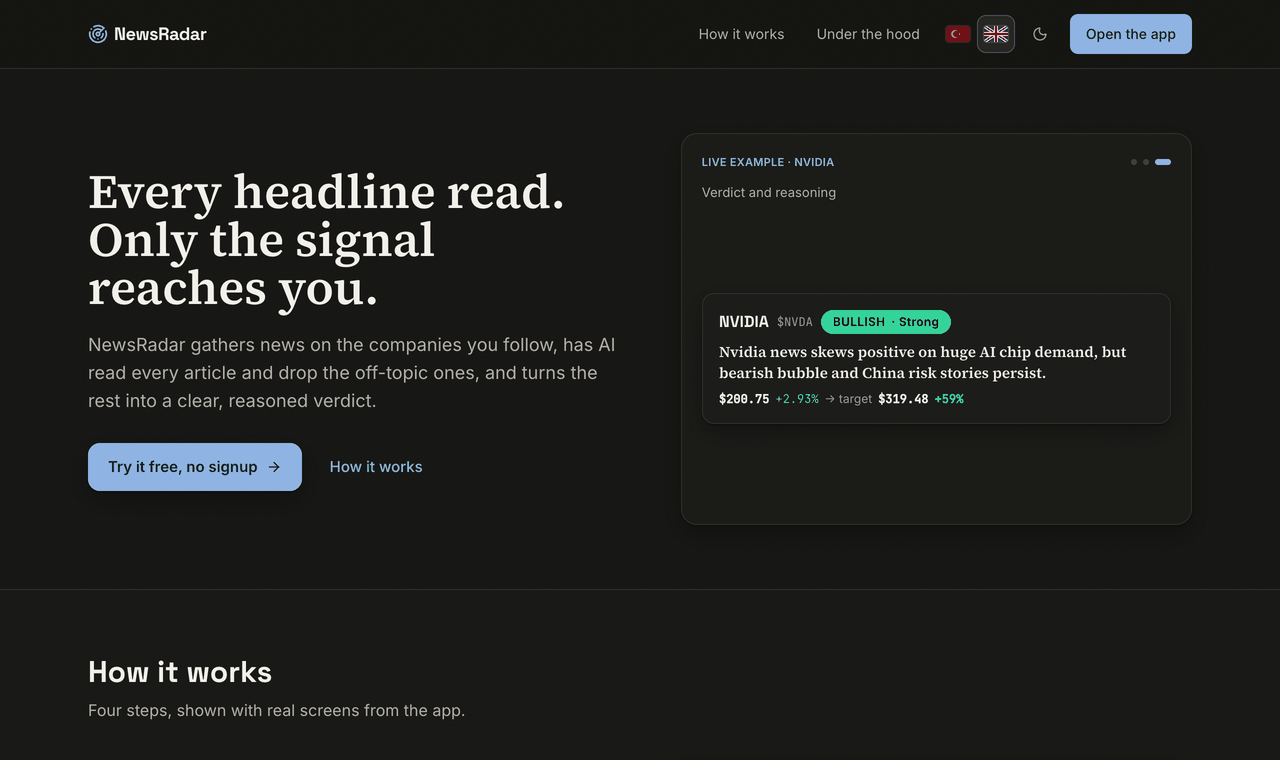
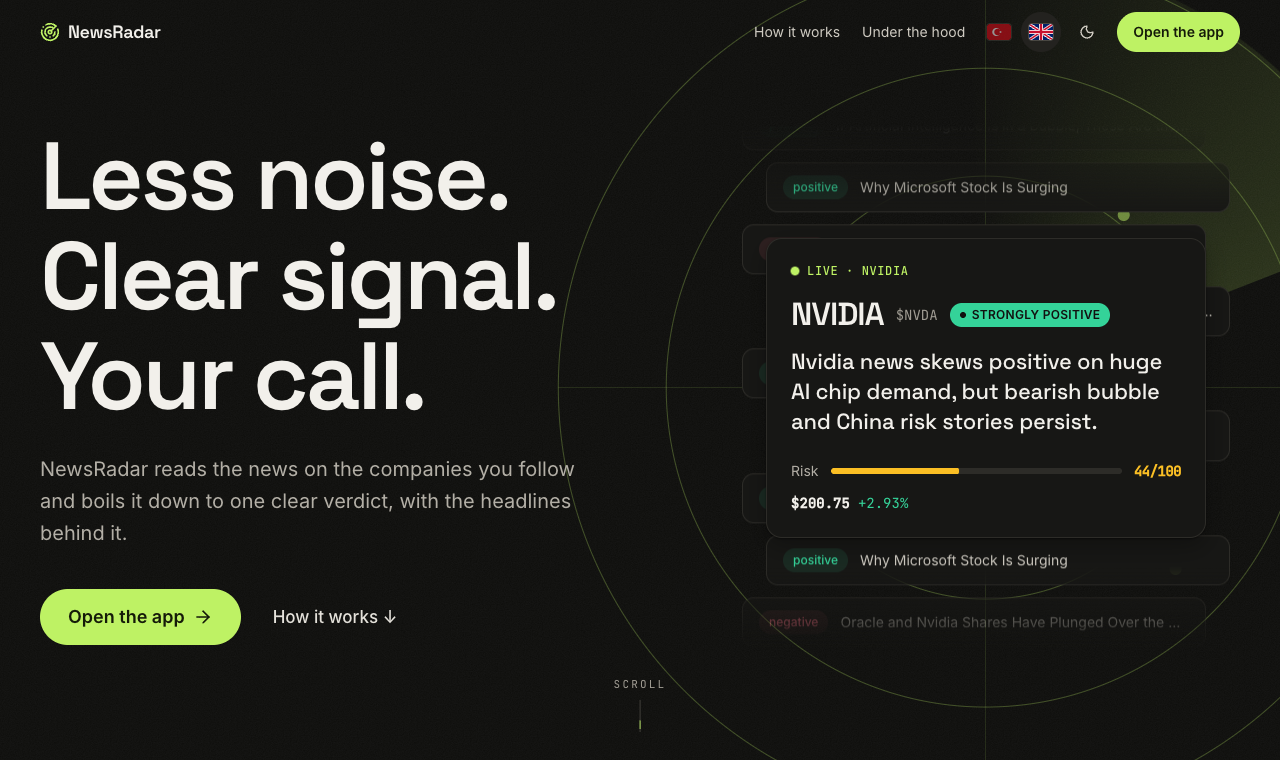
README: landing ve uygulama görselleri (açık + koyu) yeni tasarımla
- docs/images: landing-light/dark yenilendi, app-light/dark (pano) eklendi — EN arayüz,
  1280×760.
- Tablo landing + uygulama satırlarına genişletildi; özellik listesinde kaydırmaya bağlı
  landing ve ortak tasarım sistemi.

diff --git a/README.md b/README.md
@@ -6,9 +6,10 @@ NewsRadar collects financial news for a watchlist of companies, has an LLM read 
 
 > Portfolio project, not affiliated with newsradar.com.tr.
 
-| Light theme | Dark theme |
-|---|---|
-| ![NewsRadar landing page, light theme](docs/images/landing-light.png) | ![NewsRadar landing page, dark theme](docs/images/landing-dark.png) |
+| | Light theme | Dark theme |
+|---|---|---|
+| **Landing** | ![NewsRadar landing page, light theme](docs/images/landing-light.png) | ![NewsRadar landing page, dark theme](docs/images/landing-dark.png) |
+| **App** | ![NewsRadar dashboard, light theme](docs/images/app-light.png) | ![NewsRadar dashboard, dark theme](docs/images/app-dark.png) |
 
 > **Principle:** NewsRadar gives a clear direction (bullish / neutral / bearish) and a conviction level, but it keeps the **news-flow signal separate from price prediction**. It says explicitly what news cannot tell you (valuation, whether a move is already priced in), and every view includes a **"verify first" checklist**. There are no unexplained BUY/SELL calls. This is not investment advice.
 
@@ -25,7 +26,8 @@ NewsRadar collects financial news for a watchlist of companies, has an LLM read 
 - **Analyst consensus and price targets** (Finnhub / Financial Modeling Prep), shown next to the news signal.
 - **Bilingual (TR / EN):** both the interface and the AI analysis are generated in the user's language.
 - **Light / dark / system theme:** colours come from a single set of CSS variables. Both themes meet WCAG AA contrast, checked with axe on every screen.
-- **Landing page** with a looping walkthrough built from real data and live numbers from a public stats endpoint. The dashboard lives at `/app` in its own bundle.
+- **Landing page** with a scroll-driven walkthrough built from real data and live numbers from a public stats endpoint. The dashboard lives at `/app` in its own bundle.
+- **One design system for the landing page and the app:** shared tokens (colours, type scale, radii, motion) and shared components (buttons, chips, cards, inputs, tabs, modals, toasts), so moving from the landing page into the app feels like the same product.
 - **Multi-user and cost-safe for a public site:**
   - Accounts and sessions: bcrypt passwords, signed session tokens, anonymous device sessions.
   - Spending limits: tiered per-user quotas and a system-wide **daily LLM budget in USD**.
